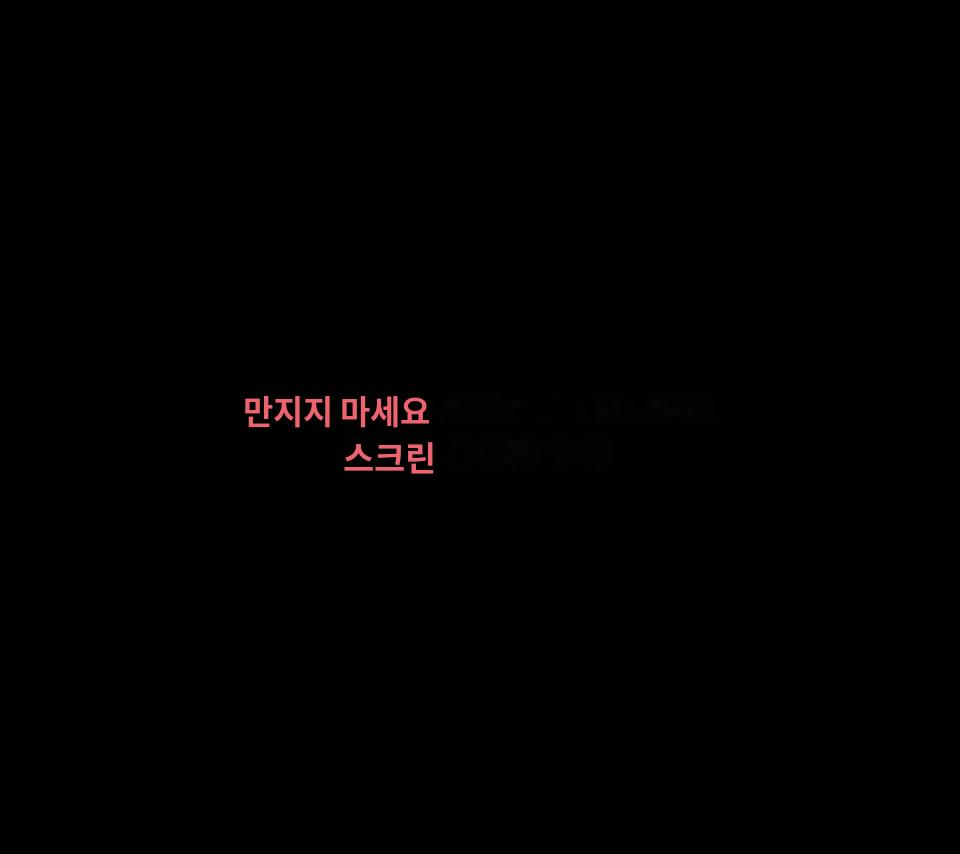
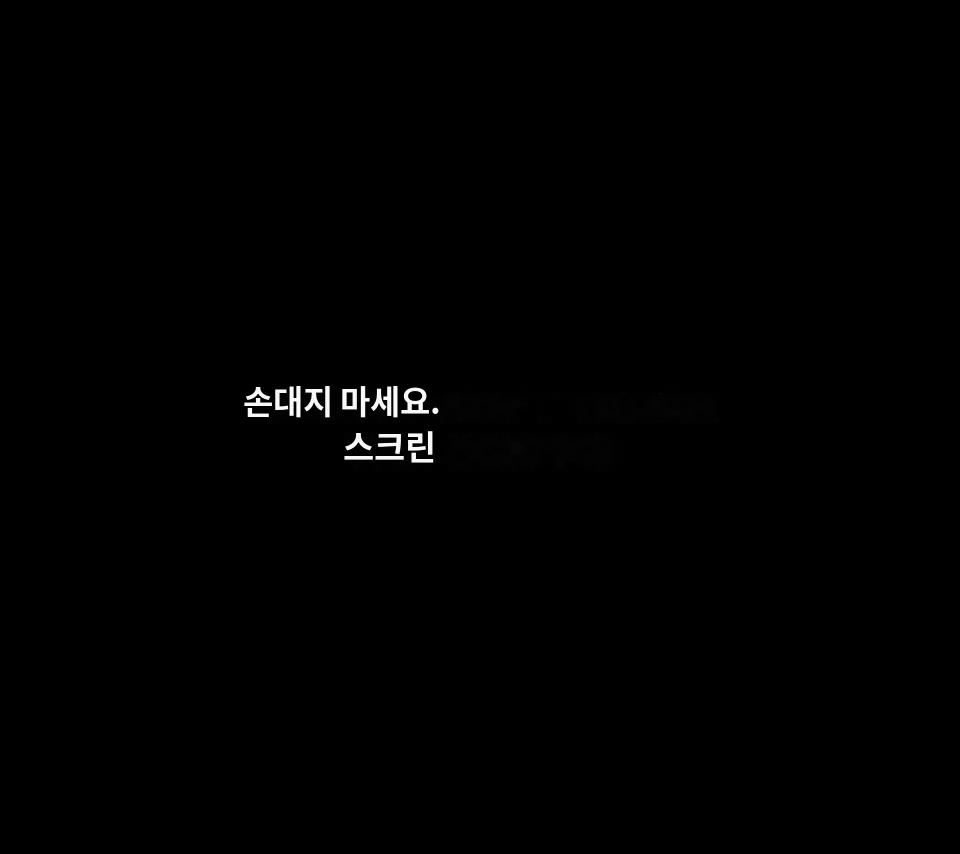
color detecting success

Changed region(s): [[0.25, 0.4567, 0.4688, 0.5785]]

diff --git a/TEST_JW/test.py b/TEST_JW/test.py
@@ -8,14 +8,15 @@ import requests
 import numpy as np
 from PIL import Image, ImageFont, ImageDraw
 import torch
+from sklearn.cluster import KMeans
 
-print(torch.cuda.is_available())
+# print(torch.cuda.is_available())
 
 # Press Shift+F10 to execute it or replace it with your code.
 # Press Double Shift to search everywhere for classes, files, tool windows, actions, and settings.
 
 # 이미지 파일 경로
-file_path = r'sign_noun_002_33753.jpg'
+file_path = r'67nMHc.jpg'
 img = cv2.imread(file_path, cv2.IMREAD_COLOR)
 
 CLIENT_ID = "MawiiHEojSbWlRvZjWEM"
@@ -174,7 +175,7 @@ def rgb(img):
             or (r3>150 and g3>150 and b3>=0) or (r4>150 and g4>150 and b4>150):
         return 0
 
-def rewrite(tranlated_texts ,bbox_list):
+def rewrite(tranlated_texts ,bbox_list, color, index):
     # 폰트( 구글 폰트에서 이용가능 ) , 폰트크기
     image_path = 'output_inpainting'
     img = Image.open(f"{image_path}/{file_path}")
@@ -191,7 +192,8 @@ def rewrite(tranlated_texts ,bbox_list):
 
         font_size = decsion_font_size(bbox_hi, text)
         title_font = ImageFont.truetype('ttf/NotoSansKR-Bold.otf', font_size)
-        image_editable.text((bbox[0][0], bbox[0][1]), text, (255,255,255), anchor = 'lt', font=title_font)
+        result = list(map(int, color[idx][index[idx][1]]))
+        image_editable.text((bbox[0][0], bbox[0][1]), text, tuple(result), anchor = 'lt', font=title_font)
 
     save_rewrite_images(img)
 
@@ -215,6 +217,39 @@ def save_inpainting_images():
 def save_rewrite_images(img):
     image_path = 'output_rewrite'
     img.save(f"{image_path}/{file_path}")
+def clt_(img):
+    img = cv2.cvtColor(img, cv2.COLOR_BGR2RGB)
+    img = img.reshape((img.shape[0] * img.shape[1], 3)) # height, width 통합
+
+    k = 3 # 예제는 5개로 나누겠습니다
+    clt = KMeans(n_clusters = k, random_state=0)
+    clt.fit(img)
+    return clt
+
+def centroid_histogram(clt):
+    # grab the number of different clusters and create a histogram
+    # based on the number of pixels assigned to each cluster
+    numLabels = np.arange(0, len(np.unique(clt.labels_))+1)
+    (hist, _) = np.histogram(clt.labels_, bins=numLabels)
+
+    # normalize the histogram, such that it sums to one
+    hist = hist.astype("float")
+    hist /= hist.sum()
+    # return the histogram
+    return hist
+
+
+def centroid_histogram(clt):
+    # grab the number of different clusters and create a histogram
+    # based on the number of pixels assigned to each cluster
+    numLabels = np.arange(0, len(np.unique(clt.labels_))+1)
+    (hist, _) = np.histogram(clt.labels_, bins=numLabels)
+
+    # normalize the histogram, such that it sums to one
+    hist = hist.astype("float")
+    hist /= hist.sum()
+    # return the histogram
+    return hist
 
 # Press the green button in the gutter to run the script.
 if __name__ == '__main__':
@@ -222,15 +257,20 @@ if __name__ == '__main__':
     print('Text_list :', text_list)
     tranlated_texts: List[str] = translate_texts(texts=text_list, type='naver')
     print(f'Tranlated_texts : {tranlated_texts}')
-
+    color_list = []
+    reverse_sorted_index = []
     for bbox in bbox_list:
         img_cut = cut_image(img, bbox)
+        clt = clt_(img_cut)
+        hist = centroid_histogram(clt)
+        color_list.append(clt.cluster_centers_)
+        reverse_index = (-hist).argsort()
+        reverse_sorted_index.append(reverse_index)
+
         mask = mask_image(img_cut)
         masked_img = cv2.inpaint(img_cut, mask, 3, cv2.INPAINT_TELEA)
         img = change_original(masked_img, bbox)
 
     save_inpainting_images()
-    rewrite(tranlated_texts,bbox_list)
-
-
+    rewrite(tranlated_texts,bbox_list,color_list, reverse_sorted_index)
 

diff --git a/TEST_JW/testfile.py b/TEST_JW/testfile.py
@@ -43,55 +43,44 @@ def call():
     cv2.imshow('img', img)
     cv2.waitKey(0)
 
-img = img.reshape((img.shape[0] * img.shape[1], 3)) # height, width 통합
+# def clt_(img):
+#     img = img.reshape((img.shape[0] * img.shape[1], 3)) # height, width 통합
+#
+#     k = 5 # 예제는 5개로 나누겠습니다
+#     clt = KMeans(n_clusters = k, random_state=0)
+#     clt.fit(img)
+#     return clt
+#
+#
+#
+# def centroid_histogram(clt):
+#     # grab the number of different clusters and create a histogram
+#     # based on the number of pixels assigned to each cluster
+#     numLabels = np.arange(0, len(np.unique(clt.labels_))+1)
+#     (hist, _) = np.histogram(clt.labels_, bins=numLabels)
+#
+#     # normalize the histogram, such that it sums to one
+#     hist = hist.astype("float")
+#     hist /= hist.sum()
+#     # return the histogram
+#     return hist
+#
+#
+# clt = clt_(img)
+#
+# # k = 값에 따라 달라짐.
+# color_list = []
+# for center in clt.cluster_centers_:
+#     color_list.append(center)
+#
+# print(len(np.unique(clt.labels_)))
+# hist = centroid_histogram(clt)
+# print(hist)
+# print(color_list)
+# sorted_index = (-hist).argsort()
+# print(sorted_index)
 
-k = 5 # 예제는 5개로 나누겠습니다
-clt = KMeans(n_clusters = k)
-clt.fit(img)
-
-for center in clt.cluster_centers_:
-    print(center)
-
-def centroid_histogram(clt):
-    # grab the number of different clusters and create a histogram
-    # based on the number of pixels assigned to each cluster
-    numLabels = np.arange(0, len(np.unique(clt.labels_)) + 1)
-    (hist, _) = np.histogram(clt.labels_, bins=numLabels)
-
-    # normalize the histogram, such that it sums to one
-    hist = hist.astype("float")
-    hist /= hist.sum()
-
-    # return the histogram
-    return hist
-
-
-hist = centroid_histogram(clt)
-
-print(hist)
-def plot_colors(hist, centroids):
-    # initialize the bar chart representing the relative frequency
-    # of each of the colors
-    bar = np.zeros((50, 300, 3), dtype="uint8")
-    startX = 0
-
-    # loop over the percentage of each cluster and the color of
-    # each cluster
-    for (percent, color) in zip(hist, centroids):
-        # plot the relative percentage of each cluster
-        endX = startX + (percent * 300)
-        cv2.rectangle(bar, (int(startX), 0), (int(endX), 50),
-                      color.astype("uint8").tolist(), -1)
-        startX = endX
-
-    # return the bar chart
-    return bar
-
-bar = plot_colors(hist, clt.cluster_centers_)
-
-
-# show our color bart
-plt.figure()
-plt.axis("off")
-plt.imshow(bar)
-plt.show()
+# hist 를 정렬하기
+# print(tuple(round([1.1,2.2,3.3])))
+result = list(map(int, [1.1,3.0]))
+print(result)
